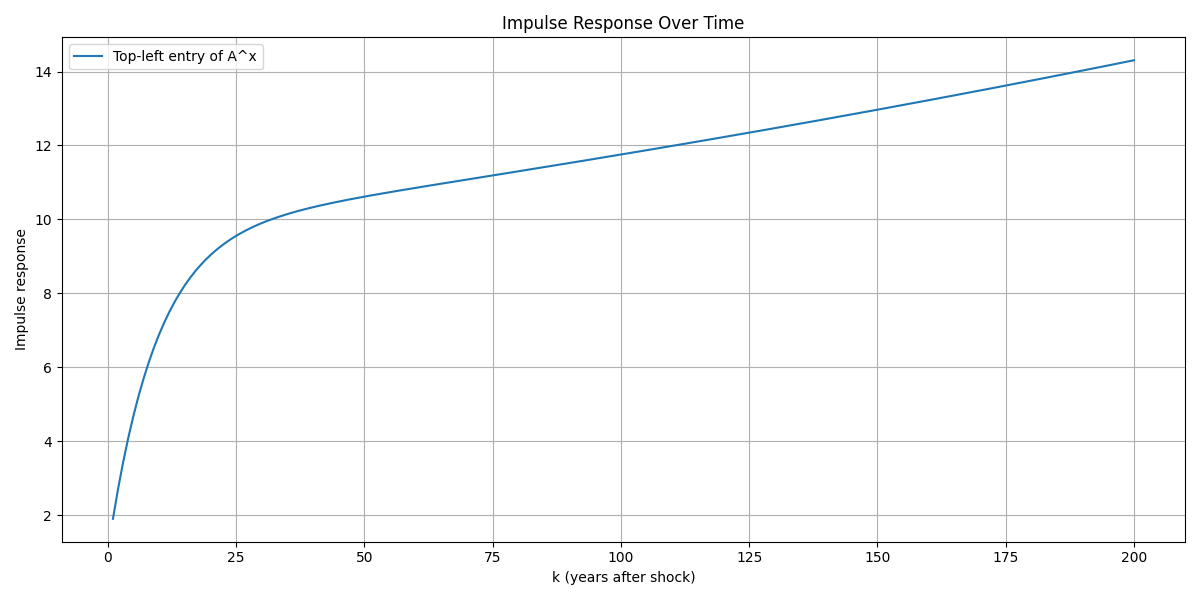
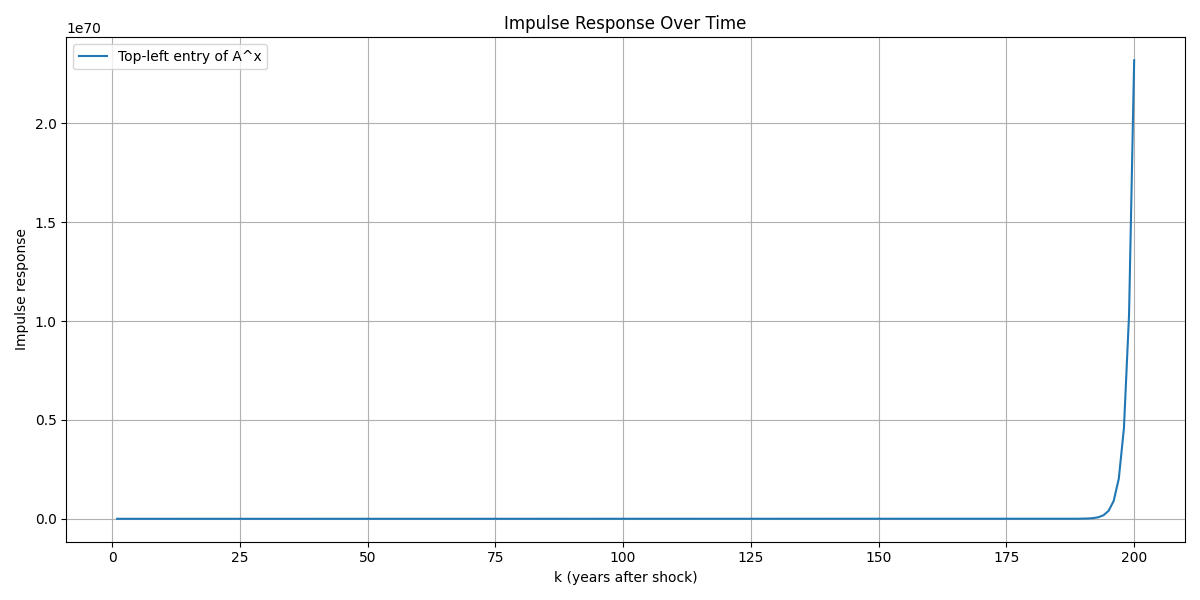
commit

diff --git a/matrixmath.py b/matrixmath.py
@@ -1,0 +1,80 @@
+import numpy as np
+
+def get_matrix(prompt):
+    print(f"\nEnter values for {prompt} (rows separated by newlines, values by spaces):")
+    lines = []
+    while True:
+        line = input()
+        if line == "":
+            break
+        lines.append(list(map(float, line.strip().split())))
+    return np.array(lines)
+
+def main():
+    print("Matrix Calculator")
+    print("=================")
+    print("Options:")
+    print("1. Add matrices (A + B)")
+    print("2. Subtract matrices (A - B)")
+    print("3. Multiply matrices (A × B)")
+    print("4. Solve Ax = B")
+    print("5. Transpose of a matrix")
+    print("6. Inverse of a matrix")
+    print("7. Determinant of a matrix")
+    print("0. Exit")
+
+    while True:
+        choice = input("\nEnter your choice (0-7): ")
+
+        if choice == "1":
+            A = get_matrix("Matrix A")
+            B = get_matrix("Matrix B")
+            print("\nResult (A + B):\n", A + B)
+
+        elif choice == "2":
+            A = get_matrix("Matrix A")
+            B = get_matrix("Matrix B")
+            print("\nResult (A - B):\n", A - B)
+
+        elif choice == "3":
+            A = get_matrix("Matrix A")
+            B = get_matrix("Matrix B")
+            print("\nResult (A × B):\n", A @ B)
+
+        elif choice == "4":
+            A = get_matrix("Matrix A (coefficient matrix)")
+            B = get_matrix("Matrix B (right-hand side)")
+            try:
+                x = np.linalg.solve(A, B)
+                print("\nSolution x:\n", x)
+            except np.linalg.LinAlgError as e:
+                print("Error solving equation:", e)
+
+        elif choice == "5":
+            A = get_matrix("Matrix A")
+            print("\nTranspose of A:\n", A.T)
+
+        elif choice == "6":
+            A = get_matrix("Matrix A")
+            try:
+                inv = np.linalg.inv(A)
+                print("\nInverse of A:\n", inv)
+            except np.linalg.LinAlgError:
+                print("Matrix A is not invertible.")
+
+        elif choice == "7":
+            A = get_matrix("Matrix A")
+            try:
+                det = np.linalg.det(A)
+                print(f"\nDeterminant of A: {det}")
+            except np.linalg.LinAlgError:
+                print("Error computing determinant.")
+
+        elif choice == "0":
+            print("Goodbye!")
+            break
+        else:
+            print("Invalid choice. Please try again.")
+
+if __name__ == "__main__":
+    main()

diff --git a/matop.py b/matop.py
@@ -1,0 +1,59 @@
+import numpy as np
+
+class MatrixOps:
+    @staticmethod
+    def add(A, B):
+        """Add two matrices"""
+        return np.add(A, B)
+
+    @staticmethod
+    def subtract(A, B):
+        """Subtract two matrices"""
+        return np.subtract(A, B)
+
+    @staticmethod
+    def multiply(A, B):
+        """Matrix multiplication"""
+        return np.matmul(A, B)
+
+    @staticmethod
+    def elementwise_multiply(A, B):
+        """Element-wise multiplication"""
+        return np.multiply(A, B)
+
+    @staticmethod
+    def transpose(A):
+        """Transpose of a matrix"""
+        return np.transpose(A)
+
+    @staticmethod
+    def determinant(A):
+        """Determinant of a matrix"""
+        return np.linalg.det(A)
+
+    @staticmethod
+    def inverse(A):
+        """Inverse of a matrix"""
+        return np.linalg.inv(A)
+
+    @staticmethod
+    def kronecker(A, B):
+        """Kronecker product of two matrices"""
+        return np.kron(A, B)
+
+
+# Example usage
+if __name__ == "__main__":
+    A = np.array([[1, 2], [3, 4]])
+    B = np.array([[0, 5], [6, 7]])
+
+    print("A:\n", A)
+    print("B:\n", B)
+
+    print("\nA + B:\n", MatrixOps.add(A, B))
+    print("\nA * B (matrix multiply):\n", MatrixOps.multiply(A, B))
+    print("\nA elementwise B:\n", MatrixOps.elementwise_multiply(A, B))
+    print("\nTranspose of A:\n", MatrixOps.transpose(A))
+    print("\nDeterminant of A:\n", MatrixOps.determinant(A))
+    print("\nInverse of A:\n", MatrixOps.inverse(A))
+    print("\nKronecker product of A and B:\n", MatrixOps.kronecker(A, B))

diff --git a/main.py b/main.py
@@ -3,7 +3,7 @@ import numpy as np
 import matplotlib.pyplot as plt
 
 # Define the matrix
-A = np.array([[1.9002, -0.9],
+A = np.array([[1.85, 0.9],
               [1.0,  0.0]])
 
 # Compute A^x for x from 1 to 200 and collect top-left element (position [0, 0])
